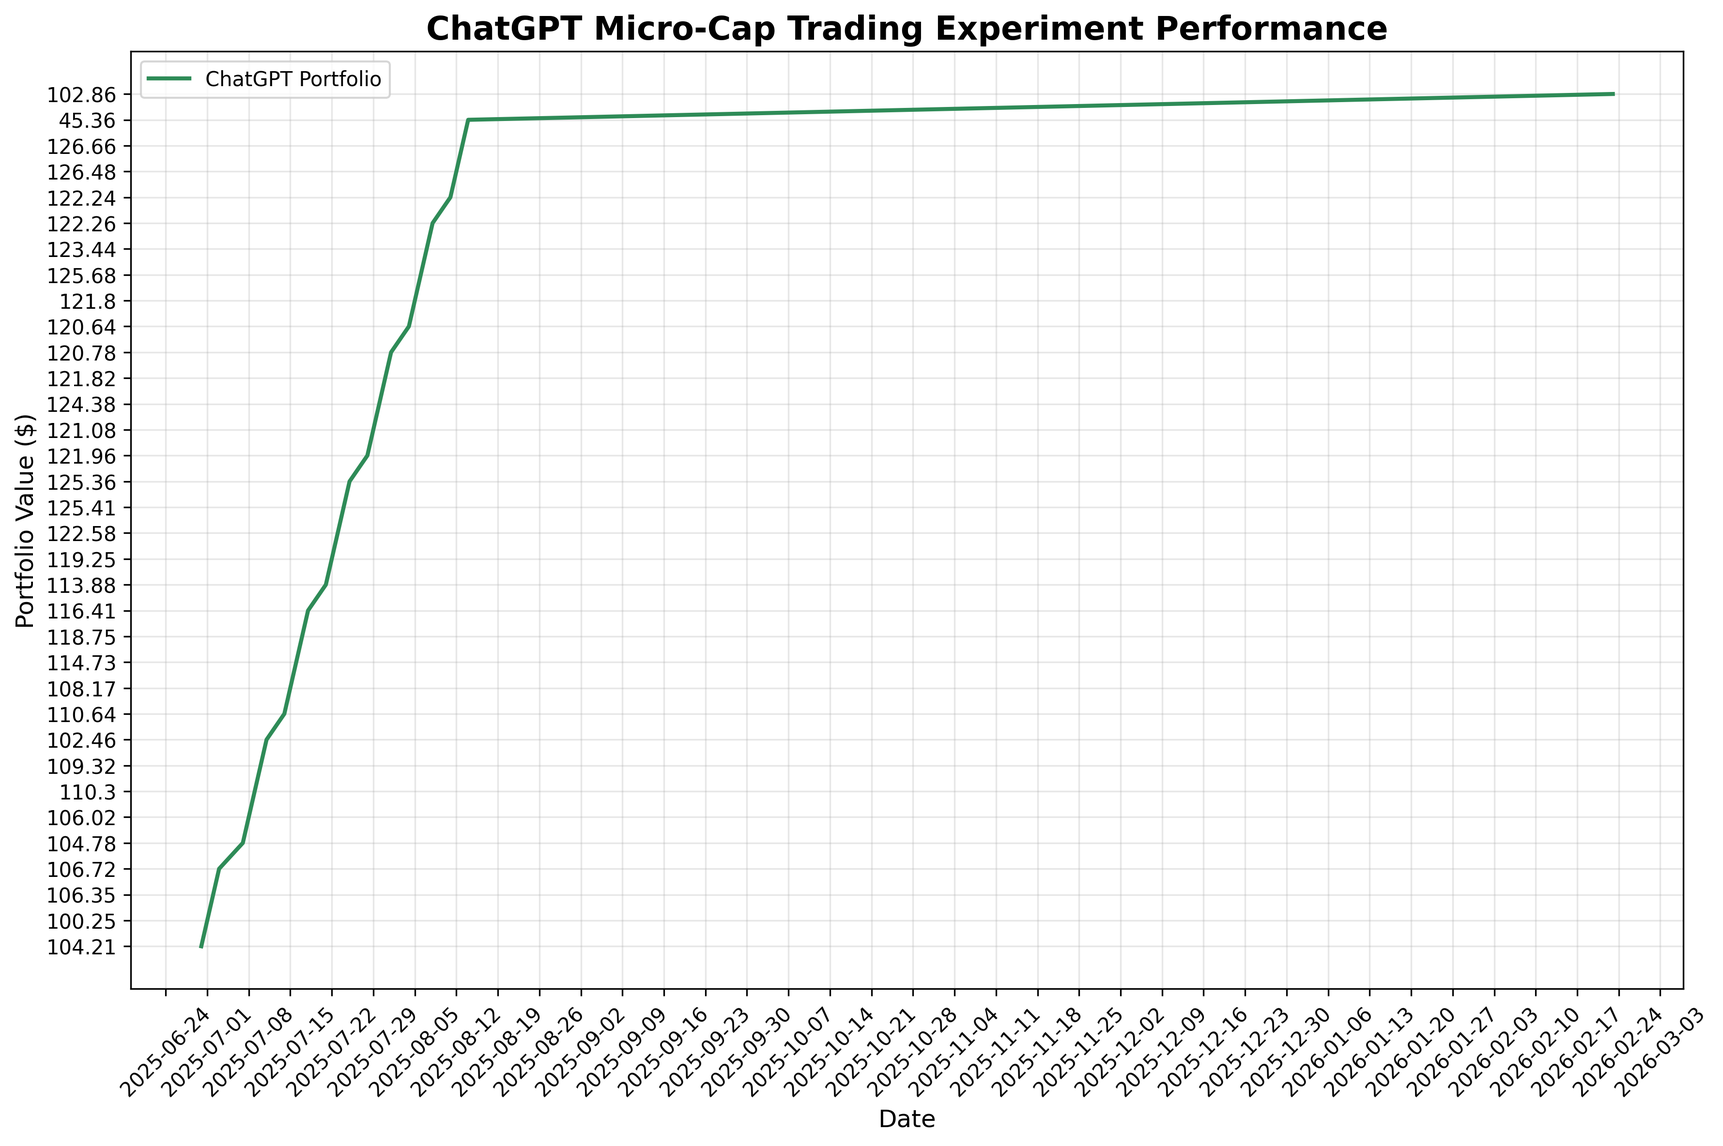
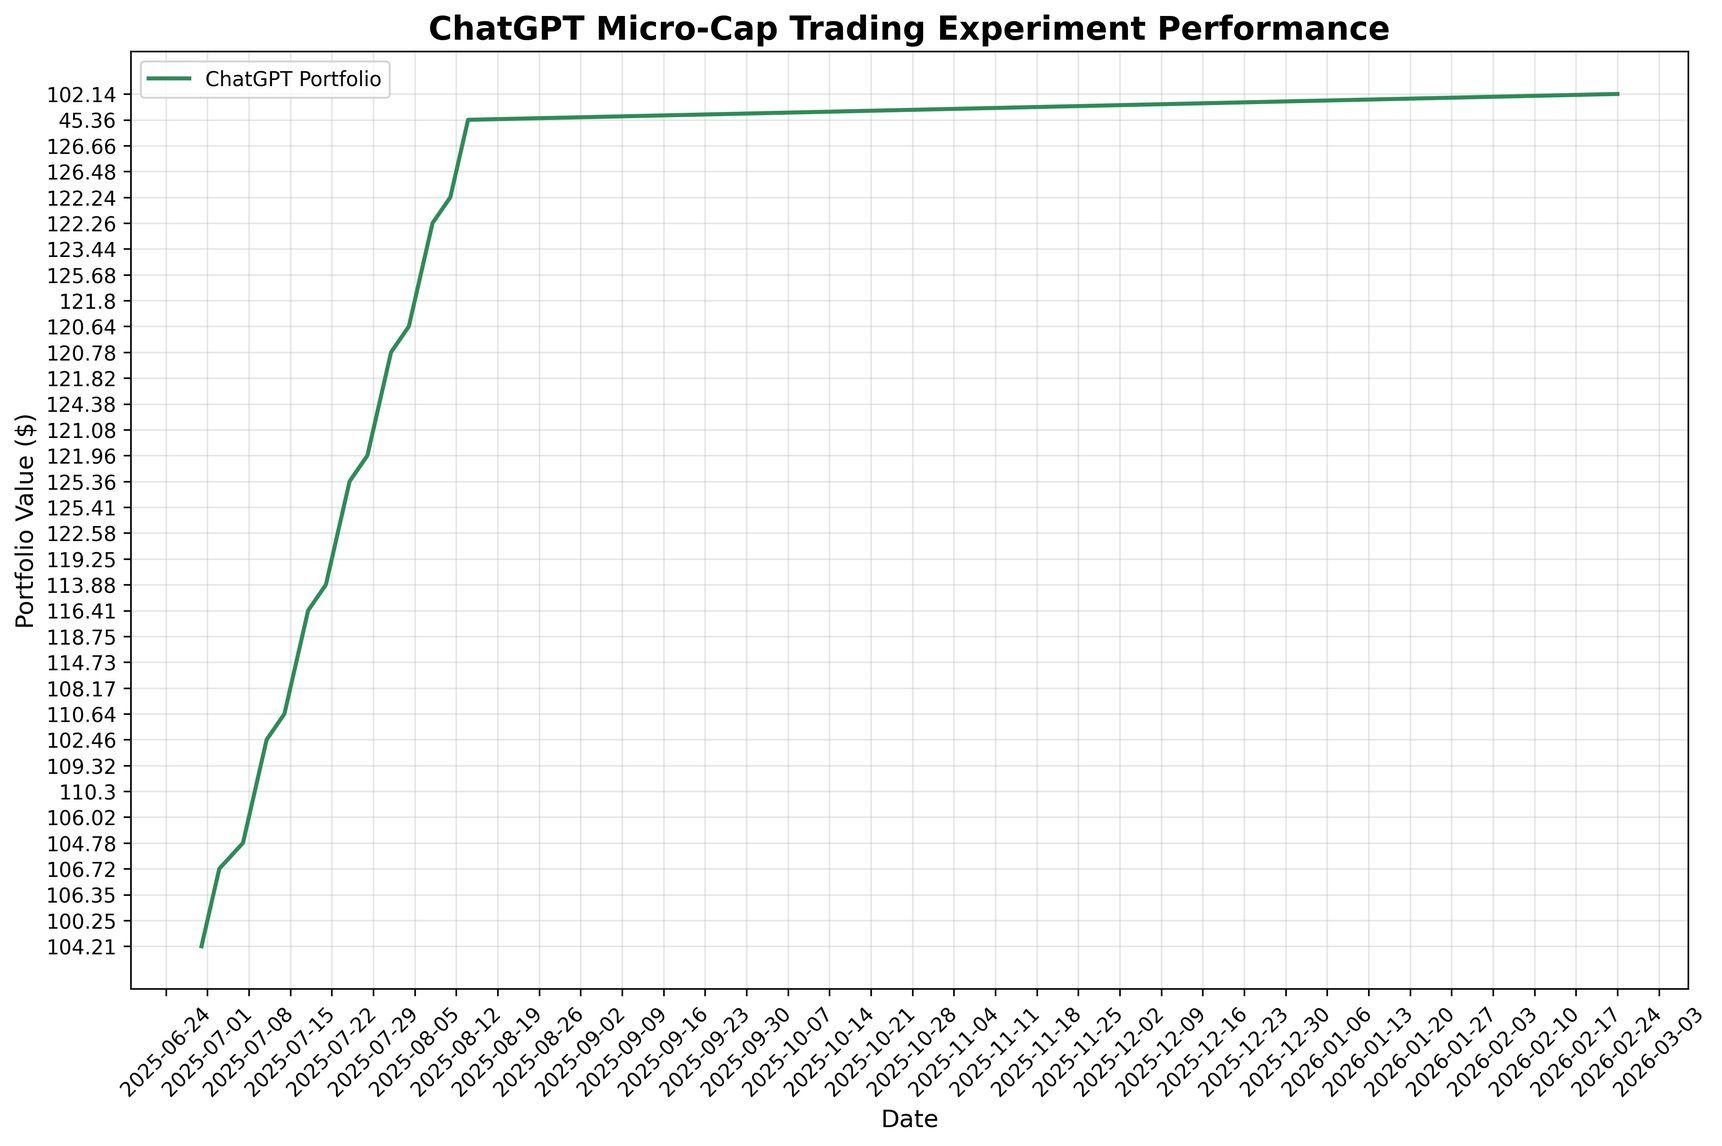
deploy: e15cad030d70fb3fbb51f9df6e22fa70c2f175c0

diff --git a/index.html b/index.html
@@ -105,7 +105,7 @@
                 <div class="stat-label">Total Trades</div>
             </div>
             <div class="stat-card">
-                <div class="stat-value" id="last-updated">2026-02-23</div>
+                <div class="stat-value" id="last-updated">2026-02-24</div>
                 <div class="stat-label">Last Updated</div>
             </div>
         </div>
@@ -160,8 +160,8 @@
     
     <script>
         // Portfolio data
-        const portfolioData = JSON.parse("[{&quot;Date&quot;: &quot;2025-08-11&quot;, &quot;Ticker&quot;: &quot;ABEO&quot;, &quot;Shares&quot;: 4.0, &quot;Buy Price&quot;: 5.77, &quot;Cost Basis&quot;: 23.08, &quot;Stop Loss&quot;: 4.9, &quot;Current Price&quot;: 6.28, &quot;Total Value&quot;: 25.12, &quot;PnL&quot;: 2.04, &quot;Action&quot;: &quot;HOLD&quot;, &quot;Cash Balance&quot;: NaN, &quot;Total Equity&quot;: NaN}, {&quot;Date&quot;: &quot;2025-08-11&quot;, &quot;Ticker&quot;: &quot;ACTU&quot;, &quot;Shares&quot;: 6.0, &quot;Buy Price&quot;: 5.75, &quot;Cost Basis&quot;: 34.5, &quot;Stop Loss&quot;: 4.89, &quot;Current Price&quot;: 8.01, &quot;Total Value&quot;: 48.06, &quot;PnL&quot;: 13.56, &quot;Action&quot;: &quot;HOLD&quot;, &quot;Cash Balance&quot;: NaN, &quot;Total Equity&quot;: NaN}, {&quot;Date&quot;: &quot;2025-08-11&quot;, &quot;Ticker&quot;: &quot;ESPR&quot;, &quot;Shares&quot;: 2.0, &quot;Buy Price&quot;: 1.91, &quot;Cost Basis&quot;: 3.82, &quot;Stop Loss&quot;: 1.6, &quot;Current Price&quot;: 1.85, &quot;Total Value&quot;: 3.7, &quot;PnL&quot;: -0.12, &quot;Action&quot;: &quot;HOLD&quot;, &quot;Cash Balance&quot;: NaN, &quot;Total Equity&quot;: NaN}, {&quot;Date&quot;: &quot;2025-08-11&quot;, &quot;Ticker&quot;: &quot;TOTAL&quot;, &quot;Shares&quot;: NaN, &quot;Buy Price&quot;: NaN, &quot;Cost Basis&quot;: NaN, &quot;Stop Loss&quot;: NaN, &quot;Current Price&quot;: NaN, &quot;Total Value&quot;: 76.88, &quot;PnL&quot;: 15.48, &quot;Action&quot;: NaN, &quot;Cash Balance&quot;: 45.36, &quot;Total Equity&quot;: &quot;122.24&quot;}, {&quot;Date&quot;: &quot;2025-08-12&quot;, &quot;Ticker&quot;: &quot;ABEO&quot;, &quot;Shares&quot;: 4.0, &quot;Buy Price&quot;: 5.77, &quot;Cost Basis&quot;: 23.08, &quot;Stop Loss&quot;: 4.9, &quot;Current Price&quot;: 6.38, &quot;Total Value&quot;: 25.52, &quot;PnL&quot;: 2.44, &quot;Action&quot;: &quot;HOLD&quot;, &quot;Cash Balance&quot;: NaN, &quot;Total Equity&quot;: NaN}, {&quot;Date&quot;: &quot;2025-08-12&quot;, &quot;Ticker&quot;: &quot;ACTU&quot;, &quot;Shares&quot;: 6.0, &quot;Buy Price&quot;: 5.75, &quot;Cost Basis&quot;: 34.5, &quot;Stop Loss&quot;: 4.89, &quot;Current Price&quot;: 8.67, &quot;Total Value&quot;: 52.02, &quot;PnL&quot;: 17.52, &quot;Action&quot;: &quot;HOLD&quot;, &quot;Cash Balance&quot;: NaN, &quot;Total Equity&quot;: NaN}, {&quot;Date&quot;: &quot;2025-08-12&quot;, &quot;Ticker&quot;: &quot;ESPR&quot;, &quot;Shares&quot;: 2.0, &quot;Buy Price&quot;: 1.91, &quot;Cost Basis&quot;: 3.82, &quot;Stop Loss&quot;: 1.6, &quot;Current Price&quot;: 1.79, &quot;Total Value&quot;: 3.58, &quot;PnL&quot;: -0.24, &quot;Action&quot;: &quot;HOLD&quot;, &quot;Cash Balance&quot;: NaN, &quot;Total Equity&quot;: NaN}, {&quot;Date&quot;: &quot;2025-08-12&quot;, &quot;Ticker&quot;: &quot;TOTAL&quot;, &quot;Shares&quot;: NaN, &quot;Buy Price&quot;: NaN, &quot;Cost Basis&quot;: NaN, &quot;Stop Loss&quot;: NaN, &quot;Current Price&quot;: NaN, &quot;Total Value&quot;: 81.12, &quot;PnL&quot;: 19.72, &quot;Action&quot;: NaN, &quot;Cash Balance&quot;: 45.36, &quot;Total Equity&quot;: &quot;126.48&quot;}, {&quot;Date&quot;: &quot;2025-08-13&quot;, &quot;Ticker&quot;: &quot;ABEO&quot;, &quot;Shares&quot;: 4.0, &quot;Buy Price&quot;: 5.77, &quot;Cost Basis&quot;: 23.08, &quot;Stop Loss&quot;: 4.9, &quot;Current Price&quot;: 6.56, &quot;Total Value&quot;: 26.24, &quot;PnL&quot;: 3.16, &quot;Action&quot;: &quot;HOLD&quot;, &quot;Cash Balance&quot;: NaN, &quot;Total Equity&quot;: NaN}, {&quot;Date&quot;: &quot;2025-08-13&quot;, &quot;Ticker&quot;: &quot;ACTU&quot;, &quot;Shares&quot;: 6.0, &quot;Buy Price&quot;: 5.75, &quot;Cost Basis&quot;: 34.5, &quot;Stop Loss&quot;: 4.89, &quot;Current Price&quot;: 8.53, &quot;Total Value&quot;: 51.18, &quot;PnL&quot;: 16.68, &quot;Action&quot;: &quot;HOLD&quot;, &quot;Cash Balance&quot;: NaN, &quot;Total Equity&quot;: NaN}, {&quot;Date&quot;: &quot;2025-08-13&quot;, &quot;Ticker&quot;: &quot;ESPR&quot;, &quot;Shares&quot;: 2.0, &quot;Buy Price&quot;: 1.91, &quot;Cost Basis&quot;: 3.82, &quot;Stop Loss&quot;: 1.6, &quot;Current Price&quot;: 1.94, &quot;Total Value&quot;: 3.88, &quot;PnL&quot;: 0.06, &quot;Action&quot;: &quot;HOLD&quot;, &quot;Cash Balance&quot;: NaN, &quot;Total Equity&quot;: NaN}, {&quot;Date&quot;: &quot;2025-08-13&quot;, &quot;Ticker&quot;: &quot;TOTAL&quot;, &quot;Shares&quot;: NaN, &quot;Buy Price&quot;: NaN, &quot;Cost Basis&quot;: NaN, &quot;Stop Loss&quot;: NaN, &quot;Current Price&quot;: NaN, &quot;Total Value&quot;: 81.3, &quot;PnL&quot;: 19.9, &quot;Action&quot;: NaN, &quot;Cash Balance&quot;: 45.36, &quot;Total Equity&quot;: &quot;126.66&quot;}, {&quot;Date&quot;: &quot;2025-08-14&quot;, &quot;Ticker&quot;: &quot;ABEO&quot;, &quot;Shares&quot;: 4.0, &quot;Buy Price&quot;: 5.77, &quot;Cost Basis&quot;: 23.08, &quot;Stop Loss&quot;: 4.9, &quot;Current Price&quot;: NaN, &quot;Total Value&quot;: NaN, &quot;PnL&quot;: NaN, &quot;Action&quot;: &quot;NO DATA&quot;, &quot;Cash Balance&quot;: NaN, &quot;Total Equity&quot;: NaN}, {&quot;Date&quot;: &quot;2025-08-14&quot;, &quot;Ticker&quot;: &quot;ACTU&quot;, &quot;Shares&quot;: 6.0, &quot;Buy Price&quot;: 5.75, &quot;Cost Basis&quot;: 34.5, &quot;Stop Loss&quot;: 4.89, &quot;Current Price&quot;: NaN, &quot;Total Value&quot;: NaN, &quot;PnL&quot;: NaN, &quot;Action&quot;: &quot;NO DATA&quot;, &quot;Cash Balance&quot;: NaN, &quot;Total Equity&quot;: NaN}, {&quot;Date&quot;: &quot;2025-08-14&quot;, &quot;Ticker&quot;: &quot;ESPR&quot;, &quot;Shares&quot;: 2.0, &quot;Buy Price&quot;: 1.91, &quot;Cost Basis&quot;: 3.82, &quot;Stop Loss&quot;: 1.6, &quot;Current Price&quot;: NaN, &quot;Total Value&quot;: NaN, &quot;PnL&quot;: NaN, &quot;Action&quot;: &quot;NO DATA&quot;, &quot;Cash Balance&quot;: NaN, &quot;Total Equity&quot;: NaN}, {&quot;Date&quot;: &quot;2025-08-14&quot;, &quot;Ticker&quot;: &quot;TOTAL&quot;, &quot;Shares&quot;: NaN, &quot;Buy Price&quot;: NaN, &quot;Cost Basis&quot;: NaN, &quot;Stop Loss&quot;: NaN, &quot;Current Price&quot;: NaN, &quot;Total Value&quot;: 0.0, &quot;PnL&quot;: 0.0, &quot;Action&quot;: NaN, &quot;Cash Balance&quot;: 45.36, &quot;Total Equity&quot;: &quot;45.36&quot;}, {&quot;Date&quot;: &quot;2026-02-23&quot;, &quot;Ticker&quot;: &quot;ABEO&quot;, &quot;Shares&quot;: 4.0, &quot;Buy Price&quot;: 5.77, &quot;Cost Basis&quot;: 23.08, &quot;Stop Loss&quot;: 4.9, &quot;Current Price&quot;: 5.29, &quot;Total Value&quot;: 21.16, &quot;PnL&quot;: -1.92, &quot;Action&quot;: &quot;HOLD&quot;, &quot;Cash Balance&quot;: NaN, &quot;Total Equity&quot;: NaN}, {&quot;Date&quot;: &quot;2026-02-23&quot;, &quot;Ticker&quot;: &quot;ACTU&quot;, &quot;Shares&quot;: 6.0, &quot;Buy Price&quot;: 5.75, &quot;Cost Basis&quot;: 34.5, &quot;Stop Loss&quot;: 4.89, &quot;Current Price&quot;: 4.89, &quot;Total Value&quot;: 29.34, &quot;PnL&quot;: -5.16, &quot;Action&quot;: &quot;SELL - Stop Loss Triggered&quot;, &quot;Cash Balance&quot;: NaN, &quot;Total Equity&quot;: NaN}, {&quot;Date&quot;: &quot;2026-02-23&quot;, &quot;Ticker&quot;: &quot;ESPR&quot;, &quot;Shares&quot;: 2.0, &quot;Buy Price&quot;: 1.91, &quot;Cost Basis&quot;: 3.82, &quot;Stop Loss&quot;: 1.6, &quot;Current Price&quot;: 3.5, &quot;Total Value&quot;: 7.0, &quot;PnL&quot;: 3.18, &quot;Action&quot;: &quot;HOLD&quot;, &quot;Cash Balance&quot;: NaN, &quot;Total Equity&quot;: NaN}, {&quot;Date&quot;: &quot;2026-02-23&quot;, &quot;Ticker&quot;: &quot;TOTAL&quot;, &quot;Shares&quot;: NaN, &quot;Buy Price&quot;: NaN, &quot;Cost Basis&quot;: NaN, &quot;Stop Loss&quot;: NaN, &quot;Current Price&quot;: NaN, &quot;Total Value&quot;: 28.16, &quot;PnL&quot;: 1.26, &quot;Action&quot;: NaN, &quot;Cash Balance&quot;: 74.7, &quot;Total Equity&quot;: &quot;102.86&quot;}]");
-        const tradeData = JSON.parse("[{&quot;Date&quot;: &quot;2025-07-08&quot;, &quot;Ticker&quot;: &quot;IINN&quot;, &quot;Shares Bought&quot;: 20.0, &quot;Buy Price&quot;: 1.5, &quot;Cost Basis&quot;: 30.0, &quot;PnL&quot;: 0.0, &quot;Reason&quot;: &quot;MANUAL BUY - New position&quot;, &quot;Shares Sold&quot;: NaN, &quot;Sell Price&quot;: NaN}, {&quot;Date&quot;: &quot;2025-07-21&quot;, &quot;Ticker&quot;: &quot;CADL&quot;, &quot;Shares Bought&quot;: NaN, &quot;Buy Price&quot;: NaN, &quot;Cost Basis&quot;: 25.2, &quot;PnL&quot;: 8.5, &quot;Reason&quot;: &quot;MANUAL SELL - GAIN CAPITAL FOR ACTU&quot;, &quot;Shares Sold&quot;: 5.0, &quot;Sell Price&quot;: 6.59}, {&quot;Date&quot;: &quot;2025-07-21&quot;, &quot;Ticker&quot;: &quot;ACTU&quot;, &quot;Shares Bought&quot;: 6.0, &quot;Buy Price&quot;: 5.75, &quot;Cost Basis&quot;: 34.5, &quot;PnL&quot;: 0.0, &quot;Reason&quot;: &quot;MANUAL BUY - New position&quot;, &quot;Shares Sold&quot;: NaN, &quot;Sell Price&quot;: NaN}, {&quot;Date&quot;: &quot;2025-07-28&quot;, &quot;Ticker&quot;: &quot;IINN&quot;, &quot;Shares Bought&quot;: NaN, &quot;Buy Price&quot;: NaN, &quot;Cost Basis&quot;: 9.0, &quot;PnL&quot;: -0.5400000000000009, &quot;Reason&quot;: &quot;MANUAL SELL - POSITION REDUCTION&quot;, &quot;Shares Sold&quot;: 6.0, &quot;Sell Price&quot;: 1.41}, {&quot;Date&quot;: &quot;2025-07-29&quot;, &quot;Ticker&quot;: &quot;AZTR&quot;, &quot;Shares Bought&quot;: NaN, &quot;Buy Price&quot;: NaN, &quot;Cost Basis&quot;: 13.75, &quot;PnL&quot;: -2.75, &quot;Reason&quot;: &quot;MANUAL SELL - DILUTION RISK&quot;, &quot;Shares Sold&quot;: 55.0, &quot;Sell Price&quot;: 0.2}, {&quot;Date&quot;: &quot;2025-08-01&quot;, &quot;Ticker&quot;: &quot;IINN&quot;, &quot;Shares Bought&quot;: 2.0, &quot;Buy Price&quot;: 1.74, &quot;Cost Basis&quot;: 3.48, &quot;PnL&quot;: 0.0, &quot;Reason&quot;: &quot;MANUAL BUY - New position&quot;, &quot;Shares Sold&quot;: NaN, &quot;Sell Price&quot;: NaN}, {&quot;Date&quot;: &quot;2025-08-01&quot;, &quot;Ticker&quot;: &quot;ABEO&quot;, &quot;Shares Bought&quot;: NaN, &quot;Buy Price&quot;: NaN, &quot;Cost Basis&quot;: 11.54, &quot;PnL&quot;: 1.200000000000001, &quot;Reason&quot;: &quot;MANUAL SELL - TRIM AFTER SUPPORT LOSS&quot;, &quot;Shares Sold&quot;: 2.0, &quot;Sell Price&quot;: 6.37}, {&quot;Date&quot;: &quot;2025-08-07&quot;, &quot;Ticker&quot;: &quot;ESPR&quot;, &quot;Shares Bought&quot;: 2.0, &quot;Buy Price&quot;: 1.91, &quot;Cost Basis&quot;: 3.82, &quot;PnL&quot;: 0.0, &quot;Reason&quot;: &quot;MANUAL BUY - New position&quot;, &quot;Shares Sold&quot;: NaN, &quot;Sell Price&quot;: NaN}, {&quot;Date&quot;: &quot;2025-08-08&quot;, &quot;Ticker&quot;: &quot;IINN&quot;, &quot;Shares Bought&quot;: NaN, &quot;Buy Price&quot;: NaN, &quot;Cost Basis&quot;: 1.5, &quot;PnL&quot;: -6.4, &quot;Reason&quot;: &quot;AUTOMATED SELL - STOPLOSS TRIGGERED&quot;, &quot;Shares Sold&quot;: 16.0, &quot;Sell Price&quot;: 1.1}, {&quot;Date&quot;: &quot;2026-02-23&quot;, &quot;Ticker&quot;: &quot;ACTU&quot;, &quot;Shares Bought&quot;: NaN, &quot;Buy Price&quot;: NaN, &quot;Cost Basis&quot;: 5.75, &quot;PnL&quot;: -5.16, &quot;Reason&quot;: &quot;AUTOMATED SELL - STOPLOSS TRIGGERED&quot;, &quot;Shares Sold&quot;: 6.0, &quot;Sell Price&quot;: 4.89}]");
+        const portfolioData = JSON.parse("[{&quot;Date&quot;: &quot;2025-08-11&quot;, &quot;Ticker&quot;: &quot;ABEO&quot;, &quot;Shares&quot;: 4.0, &quot;Buy Price&quot;: 5.77, &quot;Cost Basis&quot;: 23.08, &quot;Stop Loss&quot;: 4.9, &quot;Current Price&quot;: 6.28, &quot;Total Value&quot;: 25.12, &quot;PnL&quot;: 2.04, &quot;Action&quot;: &quot;HOLD&quot;, &quot;Cash Balance&quot;: NaN, &quot;Total Equity&quot;: NaN}, {&quot;Date&quot;: &quot;2025-08-11&quot;, &quot;Ticker&quot;: &quot;ACTU&quot;, &quot;Shares&quot;: 6.0, &quot;Buy Price&quot;: 5.75, &quot;Cost Basis&quot;: 34.5, &quot;Stop Loss&quot;: 4.89, &quot;Current Price&quot;: 8.01, &quot;Total Value&quot;: 48.06, &quot;PnL&quot;: 13.56, &quot;Action&quot;: &quot;HOLD&quot;, &quot;Cash Balance&quot;: NaN, &quot;Total Equity&quot;: NaN}, {&quot;Date&quot;: &quot;2025-08-11&quot;, &quot;Ticker&quot;: &quot;ESPR&quot;, &quot;Shares&quot;: 2.0, &quot;Buy Price&quot;: 1.91, &quot;Cost Basis&quot;: 3.82, &quot;Stop Loss&quot;: 1.6, &quot;Current Price&quot;: 1.85, &quot;Total Value&quot;: 3.7, &quot;PnL&quot;: -0.12, &quot;Action&quot;: &quot;HOLD&quot;, &quot;Cash Balance&quot;: NaN, &quot;Total Equity&quot;: NaN}, {&quot;Date&quot;: &quot;2025-08-11&quot;, &quot;Ticker&quot;: &quot;TOTAL&quot;, &quot;Shares&quot;: NaN, &quot;Buy Price&quot;: NaN, &quot;Cost Basis&quot;: NaN, &quot;Stop Loss&quot;: NaN, &quot;Current Price&quot;: NaN, &quot;Total Value&quot;: 76.88, &quot;PnL&quot;: 15.48, &quot;Action&quot;: NaN, &quot;Cash Balance&quot;: 45.36, &quot;Total Equity&quot;: &quot;122.24&quot;}, {&quot;Date&quot;: &quot;2025-08-12&quot;, &quot;Ticker&quot;: &quot;ABEO&quot;, &quot;Shares&quot;: 4.0, &quot;Buy Price&quot;: 5.77, &quot;Cost Basis&quot;: 23.08, &quot;Stop Loss&quot;: 4.9, &quot;Current Price&quot;: 6.38, &quot;Total Value&quot;: 25.52, &quot;PnL&quot;: 2.44, &quot;Action&quot;: &quot;HOLD&quot;, &quot;Cash Balance&quot;: NaN, &quot;Total Equity&quot;: NaN}, {&quot;Date&quot;: &quot;2025-08-12&quot;, &quot;Ticker&quot;: &quot;ACTU&quot;, &quot;Shares&quot;: 6.0, &quot;Buy Price&quot;: 5.75, &quot;Cost Basis&quot;: 34.5, &quot;Stop Loss&quot;: 4.89, &quot;Current Price&quot;: 8.67, &quot;Total Value&quot;: 52.02, &quot;PnL&quot;: 17.52, &quot;Action&quot;: &quot;HOLD&quot;, &quot;Cash Balance&quot;: NaN, &quot;Total Equity&quot;: NaN}, {&quot;Date&quot;: &quot;2025-08-12&quot;, &quot;Ticker&quot;: &quot;ESPR&quot;, &quot;Shares&quot;: 2.0, &quot;Buy Price&quot;: 1.91, &quot;Cost Basis&quot;: 3.82, &quot;Stop Loss&quot;: 1.6, &quot;Current Price&quot;: 1.79, &quot;Total Value&quot;: 3.58, &quot;PnL&quot;: -0.24, &quot;Action&quot;: &quot;HOLD&quot;, &quot;Cash Balance&quot;: NaN, &quot;Total Equity&quot;: NaN}, {&quot;Date&quot;: &quot;2025-08-12&quot;, &quot;Ticker&quot;: &quot;TOTAL&quot;, &quot;Shares&quot;: NaN, &quot;Buy Price&quot;: NaN, &quot;Cost Basis&quot;: NaN, &quot;Stop Loss&quot;: NaN, &quot;Current Price&quot;: NaN, &quot;Total Value&quot;: 81.12, &quot;PnL&quot;: 19.72, &quot;Action&quot;: NaN, &quot;Cash Balance&quot;: 45.36, &quot;Total Equity&quot;: &quot;126.48&quot;}, {&quot;Date&quot;: &quot;2025-08-13&quot;, &quot;Ticker&quot;: &quot;ABEO&quot;, &quot;Shares&quot;: 4.0, &quot;Buy Price&quot;: 5.77, &quot;Cost Basis&quot;: 23.08, &quot;Stop Loss&quot;: 4.9, &quot;Current Price&quot;: 6.56, &quot;Total Value&quot;: 26.24, &quot;PnL&quot;: 3.16, &quot;Action&quot;: &quot;HOLD&quot;, &quot;Cash Balance&quot;: NaN, &quot;Total Equity&quot;: NaN}, {&quot;Date&quot;: &quot;2025-08-13&quot;, &quot;Ticker&quot;: &quot;ACTU&quot;, &quot;Shares&quot;: 6.0, &quot;Buy Price&quot;: 5.75, &quot;Cost Basis&quot;: 34.5, &quot;Stop Loss&quot;: 4.89, &quot;Current Price&quot;: 8.53, &quot;Total Value&quot;: 51.18, &quot;PnL&quot;: 16.68, &quot;Action&quot;: &quot;HOLD&quot;, &quot;Cash Balance&quot;: NaN, &quot;Total Equity&quot;: NaN}, {&quot;Date&quot;: &quot;2025-08-13&quot;, &quot;Ticker&quot;: &quot;ESPR&quot;, &quot;Shares&quot;: 2.0, &quot;Buy Price&quot;: 1.91, &quot;Cost Basis&quot;: 3.82, &quot;Stop Loss&quot;: 1.6, &quot;Current Price&quot;: 1.94, &quot;Total Value&quot;: 3.88, &quot;PnL&quot;: 0.06, &quot;Action&quot;: &quot;HOLD&quot;, &quot;Cash Balance&quot;: NaN, &quot;Total Equity&quot;: NaN}, {&quot;Date&quot;: &quot;2025-08-13&quot;, &quot;Ticker&quot;: &quot;TOTAL&quot;, &quot;Shares&quot;: NaN, &quot;Buy Price&quot;: NaN, &quot;Cost Basis&quot;: NaN, &quot;Stop Loss&quot;: NaN, &quot;Current Price&quot;: NaN, &quot;Total Value&quot;: 81.3, &quot;PnL&quot;: 19.9, &quot;Action&quot;: NaN, &quot;Cash Balance&quot;: 45.36, &quot;Total Equity&quot;: &quot;126.66&quot;}, {&quot;Date&quot;: &quot;2025-08-14&quot;, &quot;Ticker&quot;: &quot;ABEO&quot;, &quot;Shares&quot;: 4.0, &quot;Buy Price&quot;: 5.77, &quot;Cost Basis&quot;: 23.08, &quot;Stop Loss&quot;: 4.9, &quot;Current Price&quot;: NaN, &quot;Total Value&quot;: NaN, &quot;PnL&quot;: NaN, &quot;Action&quot;: &quot;NO DATA&quot;, &quot;Cash Balance&quot;: NaN, &quot;Total Equity&quot;: NaN}, {&quot;Date&quot;: &quot;2025-08-14&quot;, &quot;Ticker&quot;: &quot;ACTU&quot;, &quot;Shares&quot;: 6.0, &quot;Buy Price&quot;: 5.75, &quot;Cost Basis&quot;: 34.5, &quot;Stop Loss&quot;: 4.89, &quot;Current Price&quot;: NaN, &quot;Total Value&quot;: NaN, &quot;PnL&quot;: NaN, &quot;Action&quot;: &quot;NO DATA&quot;, &quot;Cash Balance&quot;: NaN, &quot;Total Equity&quot;: NaN}, {&quot;Date&quot;: &quot;2025-08-14&quot;, &quot;Ticker&quot;: &quot;ESPR&quot;, &quot;Shares&quot;: 2.0, &quot;Buy Price&quot;: 1.91, &quot;Cost Basis&quot;: 3.82, &quot;Stop Loss&quot;: 1.6, &quot;Current Price&quot;: NaN, &quot;Total Value&quot;: NaN, &quot;PnL&quot;: NaN, &quot;Action&quot;: &quot;NO DATA&quot;, &quot;Cash Balance&quot;: NaN, &quot;Total Equity&quot;: NaN}, {&quot;Date&quot;: &quot;2025-08-14&quot;, &quot;Ticker&quot;: &quot;TOTAL&quot;, &quot;Shares&quot;: NaN, &quot;Buy Price&quot;: NaN, &quot;Cost Basis&quot;: NaN, &quot;Stop Loss&quot;: NaN, &quot;Current Price&quot;: NaN, &quot;Total Value&quot;: 0.0, &quot;PnL&quot;: 0.0, &quot;Action&quot;: NaN, &quot;Cash Balance&quot;: 45.36, &quot;Total Equity&quot;: &quot;45.36&quot;}, {&quot;Date&quot;: &quot;2026-02-24&quot;, &quot;Ticker&quot;: &quot;ABEO&quot;, &quot;Shares&quot;: 4.0, &quot;Buy Price&quot;: 5.77, &quot;Cost Basis&quot;: 23.08, &quot;Stop Loss&quot;: 4.9, &quot;Current Price&quot;: 5.17, &quot;Total Value&quot;: 20.68, &quot;PnL&quot;: -2.4, &quot;Action&quot;: &quot;HOLD&quot;, &quot;Cash Balance&quot;: NaN, &quot;Total Equity&quot;: NaN}, {&quot;Date&quot;: &quot;2026-02-24&quot;, &quot;Ticker&quot;: &quot;ACTU&quot;, &quot;Shares&quot;: 6.0, &quot;Buy Price&quot;: 5.75, &quot;Cost Basis&quot;: 34.5, &quot;Stop Loss&quot;: 4.89, &quot;Current Price&quot;: 4.89, &quot;Total Value&quot;: 29.34, &quot;PnL&quot;: -5.16, &quot;Action&quot;: &quot;SELL - Stop Loss Triggered&quot;, &quot;Cash Balance&quot;: NaN, &quot;Total Equity&quot;: NaN}, {&quot;Date&quot;: &quot;2026-02-24&quot;, &quot;Ticker&quot;: &quot;ESPR&quot;, &quot;Shares&quot;: 2.0, &quot;Buy Price&quot;: 1.91, &quot;Cost Basis&quot;: 3.82, &quot;Stop Loss&quot;: 1.6, &quot;Current Price&quot;: 3.38, &quot;Total Value&quot;: 6.76, &quot;PnL&quot;: 2.94, &quot;Action&quot;: &quot;HOLD&quot;, &quot;Cash Balance&quot;: NaN, &quot;Total Equity&quot;: NaN}, {&quot;Date&quot;: &quot;2026-02-24&quot;, &quot;Ticker&quot;: &quot;TOTAL&quot;, &quot;Shares&quot;: NaN, &quot;Buy Price&quot;: NaN, &quot;Cost Basis&quot;: NaN, &quot;Stop Loss&quot;: NaN, &quot;Current Price&quot;: NaN, &quot;Total Value&quot;: 27.44, &quot;PnL&quot;: 0.54, &quot;Action&quot;: NaN, &quot;Cash Balance&quot;: 74.7, &quot;Total Equity&quot;: &quot;102.14&quot;}]");
+        const tradeData = JSON.parse("[{&quot;Date&quot;: &quot;2025-07-08&quot;, &quot;Ticker&quot;: &quot;IINN&quot;, &quot;Shares Bought&quot;: 20.0, &quot;Buy Price&quot;: 1.5, &quot;Cost Basis&quot;: 30.0, &quot;PnL&quot;: 0.0, &quot;Reason&quot;: &quot;MANUAL BUY - New position&quot;, &quot;Shares Sold&quot;: NaN, &quot;Sell Price&quot;: NaN}, {&quot;Date&quot;: &quot;2025-07-21&quot;, &quot;Ticker&quot;: &quot;CADL&quot;, &quot;Shares Bought&quot;: NaN, &quot;Buy Price&quot;: NaN, &quot;Cost Basis&quot;: 25.2, &quot;PnL&quot;: 8.5, &quot;Reason&quot;: &quot;MANUAL SELL - GAIN CAPITAL FOR ACTU&quot;, &quot;Shares Sold&quot;: 5.0, &quot;Sell Price&quot;: 6.59}, {&quot;Date&quot;: &quot;2025-07-21&quot;, &quot;Ticker&quot;: &quot;ACTU&quot;, &quot;Shares Bought&quot;: 6.0, &quot;Buy Price&quot;: 5.75, &quot;Cost Basis&quot;: 34.5, &quot;PnL&quot;: 0.0, &quot;Reason&quot;: &quot;MANUAL BUY - New position&quot;, &quot;Shares Sold&quot;: NaN, &quot;Sell Price&quot;: NaN}, {&quot;Date&quot;: &quot;2025-07-28&quot;, &quot;Ticker&quot;: &quot;IINN&quot;, &quot;Shares Bought&quot;: NaN, &quot;Buy Price&quot;: NaN, &quot;Cost Basis&quot;: 9.0, &quot;PnL&quot;: -0.5400000000000009, &quot;Reason&quot;: &quot;MANUAL SELL - POSITION REDUCTION&quot;, &quot;Shares Sold&quot;: 6.0, &quot;Sell Price&quot;: 1.41}, {&quot;Date&quot;: &quot;2025-07-29&quot;, &quot;Ticker&quot;: &quot;AZTR&quot;, &quot;Shares Bought&quot;: NaN, &quot;Buy Price&quot;: NaN, &quot;Cost Basis&quot;: 13.75, &quot;PnL&quot;: -2.75, &quot;Reason&quot;: &quot;MANUAL SELL - DILUTION RISK&quot;, &quot;Shares Sold&quot;: 55.0, &quot;Sell Price&quot;: 0.2}, {&quot;Date&quot;: &quot;2025-08-01&quot;, &quot;Ticker&quot;: &quot;IINN&quot;, &quot;Shares Bought&quot;: 2.0, &quot;Buy Price&quot;: 1.74, &quot;Cost Basis&quot;: 3.48, &quot;PnL&quot;: 0.0, &quot;Reason&quot;: &quot;MANUAL BUY - New position&quot;, &quot;Shares Sold&quot;: NaN, &quot;Sell Price&quot;: NaN}, {&quot;Date&quot;: &quot;2025-08-01&quot;, &quot;Ticker&quot;: &quot;ABEO&quot;, &quot;Shares Bought&quot;: NaN, &quot;Buy Price&quot;: NaN, &quot;Cost Basis&quot;: 11.54, &quot;PnL&quot;: 1.200000000000001, &quot;Reason&quot;: &quot;MANUAL SELL - TRIM AFTER SUPPORT LOSS&quot;, &quot;Shares Sold&quot;: 2.0, &quot;Sell Price&quot;: 6.37}, {&quot;Date&quot;: &quot;2025-08-07&quot;, &quot;Ticker&quot;: &quot;ESPR&quot;, &quot;Shares Bought&quot;: 2.0, &quot;Buy Price&quot;: 1.91, &quot;Cost Basis&quot;: 3.82, &quot;PnL&quot;: 0.0, &quot;Reason&quot;: &quot;MANUAL BUY - New position&quot;, &quot;Shares Sold&quot;: NaN, &quot;Sell Price&quot;: NaN}, {&quot;Date&quot;: &quot;2025-08-08&quot;, &quot;Ticker&quot;: &quot;IINN&quot;, &quot;Shares Bought&quot;: NaN, &quot;Buy Price&quot;: NaN, &quot;Cost Basis&quot;: 1.5, &quot;PnL&quot;: -6.4, &quot;Reason&quot;: &quot;AUTOMATED SELL - STOPLOSS TRIGGERED&quot;, &quot;Shares Sold&quot;: 16.0, &quot;Sell Price&quot;: 1.1}, {&quot;Date&quot;: &quot;2026-02-24&quot;, &quot;Ticker&quot;: &quot;ACTU&quot;, &quot;Shares Bought&quot;: NaN, &quot;Buy Price&quot;: NaN, &quot;Cost Basis&quot;: 5.75, &quot;PnL&quot;: -5.16, &quot;Reason&quot;: &quot;AUTOMATED SELL - STOPLOSS TRIGGERED&quot;, &quot;Shares Sold&quot;: 6.0, &quot;Sell Price&quot;: 4.89}]");
         
         // Update total equity
         if (portfolioData.length > 0) {
